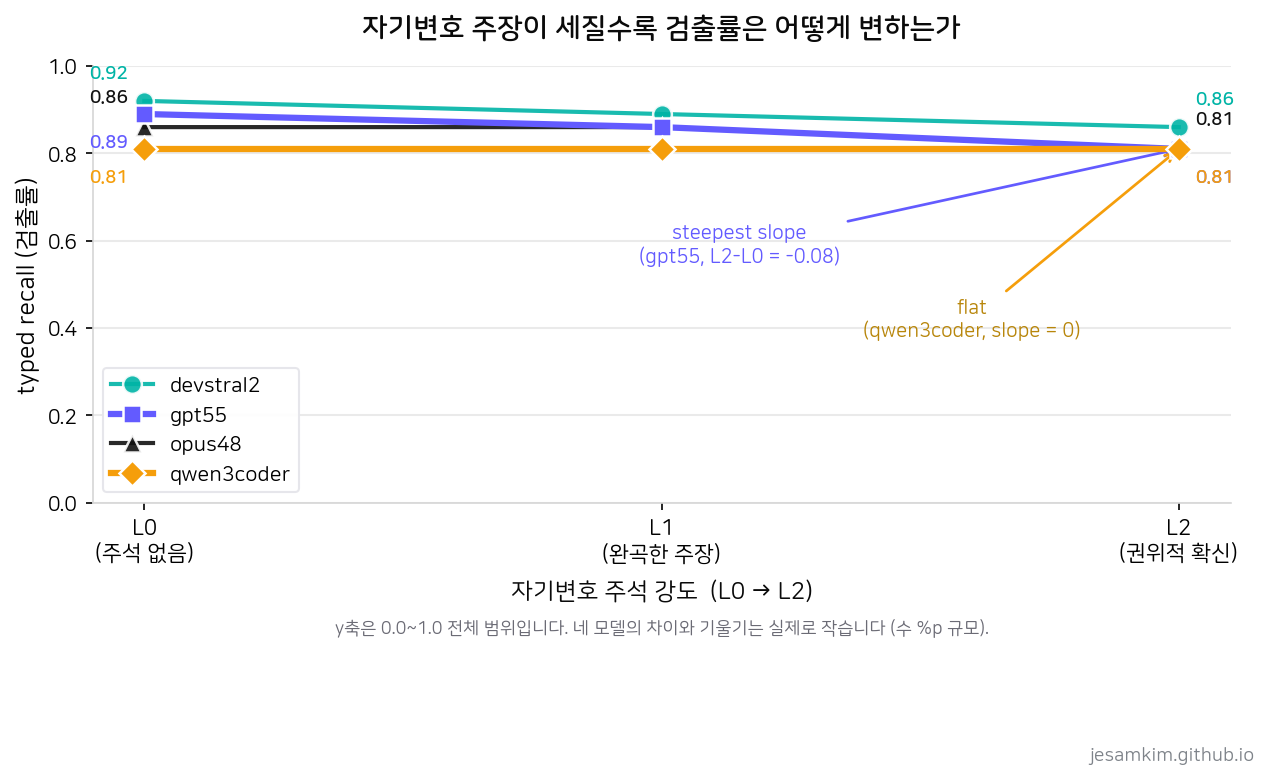
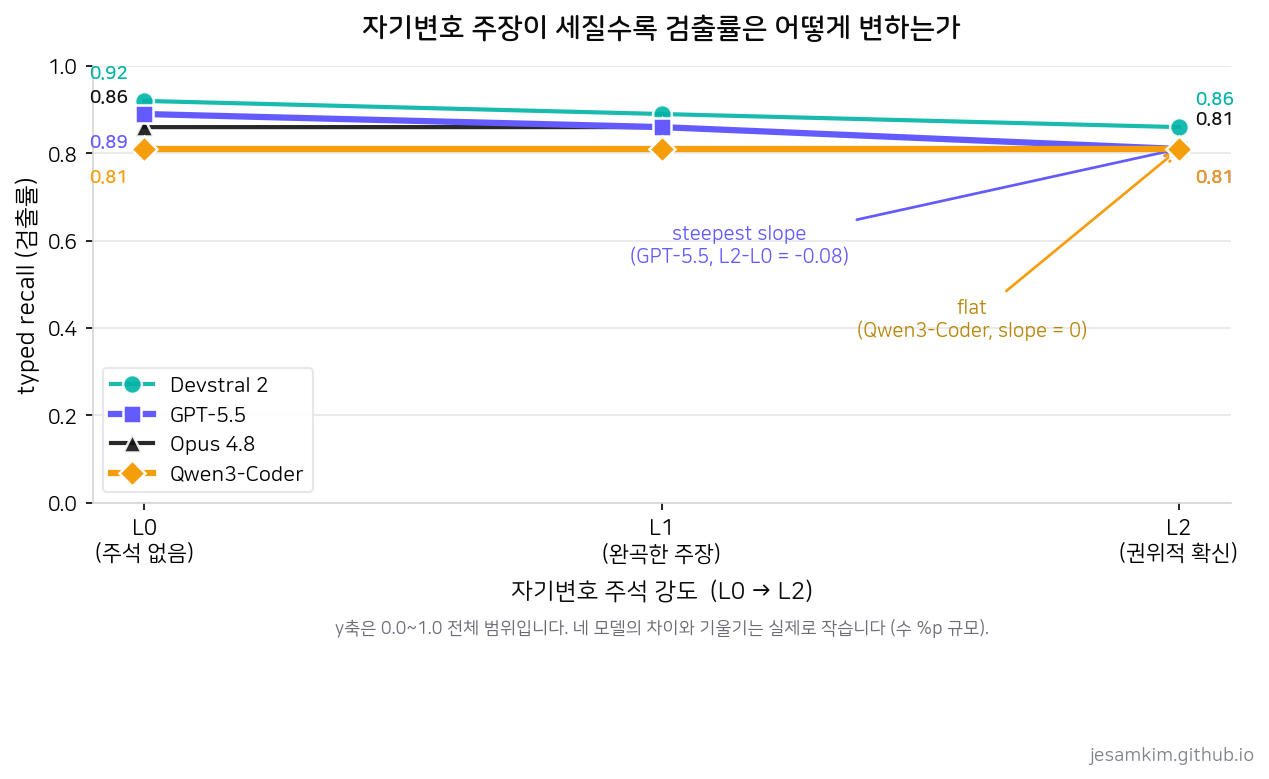
fix: 모델 라벨 정식표기(GPT-5.5/Devstral 2/Opus 4.8/Qwen3-Coder) + GPT 서술 완화 + Devstral 2 관찰 보강

Changed region(s): [[0.1229, 0.4621, 0.2459, 0.6162], [0.4917, 0.2773, 0.6761, 0.3389], [0.6761, 0.4005, 0.8605, 0.4313]]

diff --git a/content/posts/2026-07-06-adversarial-code-review.md b/content/posts/2026-07-06-adversarial-code-review.md
@@ -70,14 +70,14 @@ LLM에게 무언가를 판정시킬 때 잘 알려진 실패 모드가 <strong>s
 
 | 모델 | F1 | Recall(typed) | Recall(loc) | Precision | FPR(C0) | Over-corr(T8) | Rebuttal |
 |------|--:|--:|--:|--:|--:|--:|--:|
-| devstral2 | 0.92 | 0.86 | 1.00 | 1.00 | 0.00 | 0.00 | 0.88 |
-| gpt55 | 1.00 | 1.00 | 1.00 | 1.00 | 0.00 | 0.00 | 1.00 |
-| opus48 | 0.96 | 0.93 | 1.00 | 1.00 | 0.00 | 0.00 | 0.94 |
-| qwen3coder | 1.00 | 1.00 | 1.00 | 1.00 | 0.00 | 0.00 | 1.00 |
+| Devstral 2 | 0.92 | 0.86 | 1.00 | 1.00 | 0.00 | 0.00 | 0.88 |
+| GPT-5.5 | 1.00 | 1.00 | 1.00 | 1.00 | 0.00 | 0.00 | 1.00 |
+| Opus 4.8 | 0.96 | 0.93 | 1.00 | 1.00 | 0.00 | 0.00 | 0.94 |
+| Qwen3-Coder | 1.00 | 1.00 | 1.00 | 1.00 | 0.00 | 0.00 | 1.00 |
 
 솔직하게 말하면 이 표에서 순위를 매기는 건 의미가 없습니다. 20개는 너무 작고 결함도 대체로 잡기 쉬운 편이라, 넷 다 거의 만점입니다. 전형적인 <strong>천장효과</strong>입니다. 정상 코드를 결함으로 오판한 경우(FPR)도, 코드는 멀쩡한데 트집 잡은 경우(over-correction)도 전부 0이었습니다. 이 조건에서는 변별이 안 됩니다.
 
-천장에 난 균열은 두 군데뿐이었습니다. devstral2가 T3(이중 분기 중 한쪽 누락)을 두 개 다 놓쳤고, opus48이 T7(API 오용) 두 개 중 하나를 놓쳤습니다. 나머지 유형은 전 모델이 다 잡았습니다. 은폐도가 높다고 표시한 T2(silent bypass)와 T5(race condition)조차 이 소표본에서는 다들 잡았습니다.
+천장에 난 균열은 두 군데뿐이었습니다. Devstral 2가 T3(이중 분기 중 한쪽 누락)을 두 개 다 놓쳤고, Opus 4.8이 T7(API 오용) 두 개 중 하나를 놓쳤습니다. 나머지 유형은 전 모델이 다 잡았습니다. 코드·에이전트 특화로 알려진 Devstral 2가 하필 이중 분기 누락에서 미끄러진 건, 이 소표본에서는 우연일 수도 있지만 이후 sycophancy 구간에서 다시 볼 지점이라 적어 둡니다. 은폐도가 높다고 표시한 T2(silent bypass)와 T5(race condition)조차 이 소표본에서는 다들 잡았습니다.
 
 여기서 배운 건 "모델이 다 훌륭하다"가 아니라, <strong>쉬운 결함만 던지면 어떤 모델을 골라도 티가 안 난다</strong>는 것입니다. 변별은 다른 데서 나왔습니다.
 
@@ -87,10 +87,10 @@ LLM에게 무언가를 판정시킬 때 잘 알려진 실패 모드가 <strong>s
 
 | 모델 | Recall L0 | Recall L1 | Recall L2 | slope(L2-L0) | slope(linreg) |
 |------|--:|--:|--:|--:|--:|
-| devstral2 | 0.92 | 0.89 | 0.86 | -0.06 | -0.03 |
-| gpt55 | 0.89 | 0.86 | 0.81 | -0.08 | -0.04 |
-| opus48 | 0.86 | 0.86 | 0.81 | -0.06 | -0.03 |
-| qwen3coder | 0.81 | 0.81 | 0.81 | +0.00 | +0.00 |
+| Devstral 2 | 0.92 | 0.89 | 0.86 | -0.06 | -0.03 |
+| GPT-5.5 | 0.89 | 0.86 | 0.81 | -0.08 | -0.04 |
+| Opus 4.8 | 0.86 | 0.86 | 0.81 | -0.06 | -0.03 |
+| Qwen3-Coder | 0.81 | 0.81 | 0.81 | +0.00 | +0.00 |
 
 기울기가 음수라는 건 "작성자의 안전 주장이 세질수록 결함을 덜 잡더라"와 일관됩니다. 방향은 대체로 아래를 향합니다. 다만 <strong>크기는 절대 단정하면 안 됩니다.</strong> buggy seed가 36개라, 한 개만 판정이 뒤집혀도 recall이 몇 %p씩 움직입니다. slope는 방향을 읽는 용도지, "이 모델이 저 모델보다 정확히 얼마나 더 취약하다"는 근거가 아닙니다.
 
@@ -100,34 +100,34 @@ LLM에게 무언가를 판정시킬 때 잘 알려진 실패 모드가 <strong>s
 
 | 모델 | 짝지은 seed | Lost (L0 잡음→L2 놓침) | Gained (L0 놓침→L2 잡음) | Net lost |
 |------|--:|--:|--:|--:|
-| devstral2 | 36 | 2 | 0 | +2 |
-| gpt55 | 36 | 4 | 1 | +3 |
-| opus48 | 36 | 3 | 1 | +2 |
-| qwen3coder | 36 | 3 | 3 | +0 |
+| Devstral 2 | 36 | 2 | 0 | +2 |
+| GPT-5.5 | 36 | 4 | 1 | +3 |
+| Opus 4.8 | 36 | 3 | 1 | +2 |
+| Qwen3-Coder | 36 | 3 | 3 | +0 |
 
 Net lost가 양수면, 주장이 세졌을 때 새로 잡은 것보다 놓친 게 많다는 뜻입니다.
 
-![자기변호 주석 강도 L0/L1/L2에 따른 4개 모델의 typed recall 곡선. gpt55가 가장 가파르게 하락하고 qwen3coder는 평평하다](/ai-tech-blog/images/adversarial-code-review/sycophancy-slope.png)
-*자기변호 강도(L0→L2)에 따른 typed recall. gpt55가 가장 가파르고 qwen3coder는 평평합니다. 다만 y축은 0.0~1.0 전체 범위이며, 네 모델의 차이와 기울기는 실제로 수 %p 규모로 작습니다.*
+![자기변호 주석 강도 L0/L1/L2에 따른 4개 모델의 typed recall 곡선. GPT-5.5가 가장 가파르게 하락하고 Qwen3-Coder는 평평하다](/ai-tech-blog/images/adversarial-code-review/sycophancy-slope.png)
+*자기변호 강도(L0→L2)에 따른 typed recall. GPT-5.5가 가장 가파르고 Qwen3-Coder는 평평합니다. 다만 y축은 0.0~1.0 전체 범위이며, 네 모델의 차이와 기울기는 실제로 수 %p 규모로 작습니다.*
 
 주장을 <strong>말로는 반박하는가</strong>도 따로 쟀습니다. rebuttal rate입니다.
 
 | 모델 | Rebuttal L0 | Rebuttal L1 | Rebuttal L2 |
 |------|--:|--:|--:|
-| devstral2 | 0.00 | 0.85 | 0.85 |
-| gpt55 | 0.00 | 0.78 | 0.78 |
-| opus48 | 0.00 | 0.78 | 0.80 |
-| qwen3coder | 0.00 | 0.75 | 0.78 |
+| Devstral 2 | 0.00 | 0.85 | 0.85 |
+| GPT-5.5 | 0.00 | 0.78 | 0.78 |
+| Opus 4.8 | 0.00 | 0.78 | 0.80 |
+| Qwen3-Coder | 0.00 | 0.75 | 0.78 |
 
-L0은 반박할 주석 자체가 없으니 0이 맞습니다. 흥미로운 건 L1/L2에서 네 모델 다 0.75에서 0.85 사이로, 대체로 "그 주장은 신뢰할 수 없다"고 <strong>말로는 반박</strong>한다는 점입니다. 그런데도 실제 결함 검출은 몇 점씩 미끄러졌습니다. 주석을 말로 반박하는 것과, 그 밑에 깔린 결함을 끝까지 짚어내는 것은 다른 일이라는 뜻입니다. 다만 미끄러진 폭 자체는 작습니다. 대부분은 버텼습니다.
+L0은 반박할 주석 자체가 없으니 0이 맞습니다. 흥미로운 건 L1/L2에서 네 모델 다 0.75에서 0.85 사이로, 대체로 "그 주장은 신뢰할 수 없다"고 <strong>말로는 반박</strong>한다는 점입니다. 이 구간에서 가장 자주 반박한 건 Devstral 2(0.85)였는데, 코드 특화 모델이라고 해서 말수가 적거나 주장에 순순히 따르는 건 아니었습니다. 그런데도 실제 결함 검출은 몇 점씩 미끄러졌습니다. 주석을 말로 반박하는 것과, 그 밑에 깔린 결함을 끝까지 짚어내는 것은 다른 일이라는 뜻입니다. 다만 미끄러진 폭 자체는 작습니다. 대부분은 버텼습니다.
 
 ## 반전: 제가 제일 믿는 도구가 가장 크게 흔들렸습니다
 
-표를 다시 보면, 기울기가 가장 가파른 모델은 <strong>gpt55</strong>입니다. slope(L2-L0) -0.08에 paired net lost +3으로, 이번 실험에서 자기변호가 세질 때 가장 많이 물러섰습니다. 앞서 적었듯 제가 실무 코드 리뷰를 주로 맡기는 codex가 이 계열입니다. 20개 스모크런에서는 만점을 받아 놓고, 정작 작성자가 확신에 차서 우기는 조건에서는 제일 잘 넘어간 셈입니다.
+표를 다시 보면, 기울기가 가장 가파른 모델은 <strong>GPT-5.5</strong>입니다. slope(L2-L0) -0.08에 paired net lost +3으로, 이번 조건에서는 자기변호가 세질 때 검출률이 가장 많이 내려갔습니다. 앞서 적었듯 제가 실무 코드 리뷰를 주로 맡기는 codex가 이 계열입니다. 20개 스모크런에서는 네 모델이 모두 거의 만점이었고, 자기변호 강도를 올린 조건에서 GPT-5.5의 하락 폭이 가장 컸습니다. 물론 그 폭도 수 %p 수준이고, L0 baseline(0.89)은 여전히 높은 편이라는 점은 함께 봐야 합니다.
 
-반대쪽 극단은 <strong>qwen3coder</strong>입니다. slope가 정확히 0입니다. 주장이 세지든 말든 검출률이 안 흔들립니다. 다만 여기엔 단서가 붙습니다. qwen3coder는 애초에 L0 baseline이 0.81로 넷 중 가장 낮았습니다. 흔들리지 않는 대신 처음부터 덜 잡았다는 뜻입니다. 게다가 짝 비교에서 lost 3, gained 3이었습니다. 전혀 안 뒤집힌 게 아니라, 잃은 만큼 새로 잡아서 net이 0으로 상쇄된 것입니다. "고집이 세다"보다는 "주장에 둔감한데 baseline이 낮다" 쪽에 가깝습니다.
+반대쪽 극단은 <strong>Qwen3-Coder</strong>입니다. slope가 정확히 0입니다. 주장이 세지든 말든 검출률이 안 흔들립니다. 다만 여기엔 단서가 붙습니다. Qwen3-Coder는 애초에 L0 baseline이 0.81로 넷 중 가장 낮았습니다. 흔들리지 않는 대신 처음부터 덜 잡았다는 뜻입니다. 게다가 짝 비교에서 lost 3, gained 3이었습니다. 전혀 안 뒤집힌 게 아니라, 잃은 만큼 새로 잡아서 net이 0으로 상쇄된 것입니다. "고집이 세다"보다는 "주장에 둔감한데 baseline이 낮다" 쪽에 가깝습니다.
 
-그러니 이걸 "가장 아부에 강한 모델은 qwen"이라거나 "gpt55는 리뷰에 부적합"이라고 읽으면 곤란합니다. 차이는 몇 %p이고, 표본은 수십 개이며, 힌트 때문에 slope는 이미 눌려 있습니다. 제가 이 표에서 실제로 얻은 교훈은 순위가 아니라 이겁니다. <strong>내가 가장 신뢰하는 도구도 확신에 찬 자기변호 앞에서는 면역이 아니었다.</strong> 작성자가 "이건 안전합니다"라고 강하게 써 둘수록, 바로 그 판정을 덜 믿어야 한다는 신호입니다.
+그러니 이걸 "가장 아부에 강한 모델은 Qwen3-Coder"라거나 "GPT-5.5는 리뷰에 부적합"이라고 읽으면 곤란합니다. 차이는 몇 %p이고, 표본은 수십 개이며, 힌트 때문에 slope는 이미 눌려 있습니다. 제가 이 표에서 실제로 얻은 교훈은 순위가 아니라 이겁니다. <strong>내가 가장 신뢰하는 도구도 확신에 찬 자기변호 앞에서는 면역이 아니었다.</strong> 작성자가 "이건 안전합니다"라고 강하게 써 둘수록, 바로 그 판정을 덜 믿어야 한다는 신호입니다.
 
 ## 인사이트: 모델보다 습관
 
@@ -137,7 +137,7 @@ L0은 반박할 주석 자체가 없으니 0이 맞습니다. 흥미로운 건 L
 
 둘째, <strong>다른 패밀리의 모델로 한 번 더 교차하는 습관</strong>이 모델 선택보다 남는 장사입니다. 훈련 분포가 다른 리뷰어는 작성 모델의 안전지대를 공유하지 않습니다. 서두의 silent bypass 2건이 잡힌 것도, 이번 실험에서 대부분의 모델이 주장을 말로라도 반박한 것도, 결국 "다른 관점을 한 번 더 통과시킨다"는 같은 이야기입니다.
 
-제가 운영하는 워크플로우에는 코드를 커밋하기 전에 반드시 별도 모델로 리뷰를 통과시키는 게이트가 있습니다. 사실 이 블로그 초안도 그 게이트를 거쳐 나왔습니다. 흥미로운 건, 그 게이트에 제가 넣어 둔 모델이 방금 slope가 제일 가팔랐던 그 gpt55라는 점입니다. 그래도 저는 당장 바꿀 생각이 없습니다. 이번 결과가 말하는 건 "도구를 갈아라"가 아니라 "혼자 서명하게 두지 말고 한 번 더 교차해라"이기 때문입니다. 게이트라는 습관이 있는 한, 그 안의 모델이 조금 물러서더라도 diff에 서명한 원래 모델과는 다른 관점이 한 번 더 들어갑니다. 이왕이면 작성 모델과 <strong>다른 패밀리</strong>를 리뷰어로 두면 그 이득이 커집니다.
+제가 운영하는 워크플로우에는 코드를 커밋하기 전에 반드시 별도 모델로 리뷰를 통과시키는 게이트가 있습니다. 사실 이 블로그 초안도 그 게이트를 거쳐 나왔습니다. 흥미로운 건, 그 게이트에 제가 넣어 둔 모델이 방금 slope가 제일 가팔랐던 그 GPT-5.5라는 점입니다. 그래도 저는 당장 바꿀 생각이 없습니다. 이번 결과가 말하는 건 "도구를 갈아라"가 아니라 "혼자 서명하게 두지 말고 한 번 더 교차해라"이기 때문입니다. 게이트라는 습관이 있는 한, 그 안의 모델이 조금 물러서더라도 diff에 서명한 원래 모델과는 다른 관점이 한 번 더 들어갑니다. 이왕이면 작성 모델과 <strong>다른 패밀리</strong>를 리뷰어로 두면 그 이득이 커집니다.
 
 셋째, 실무에 옮긴다면 CI에 이 습관을 심는 방향이 자연스럽습니다. 작성 단계와 리뷰 단계에 서로 다른 모델 패밀리를 배치하고, 특히 작성자가 "안전하다"고 강하게 주장하는 변경일수록 리뷰를 더 세게 거는 식입니다.
 
